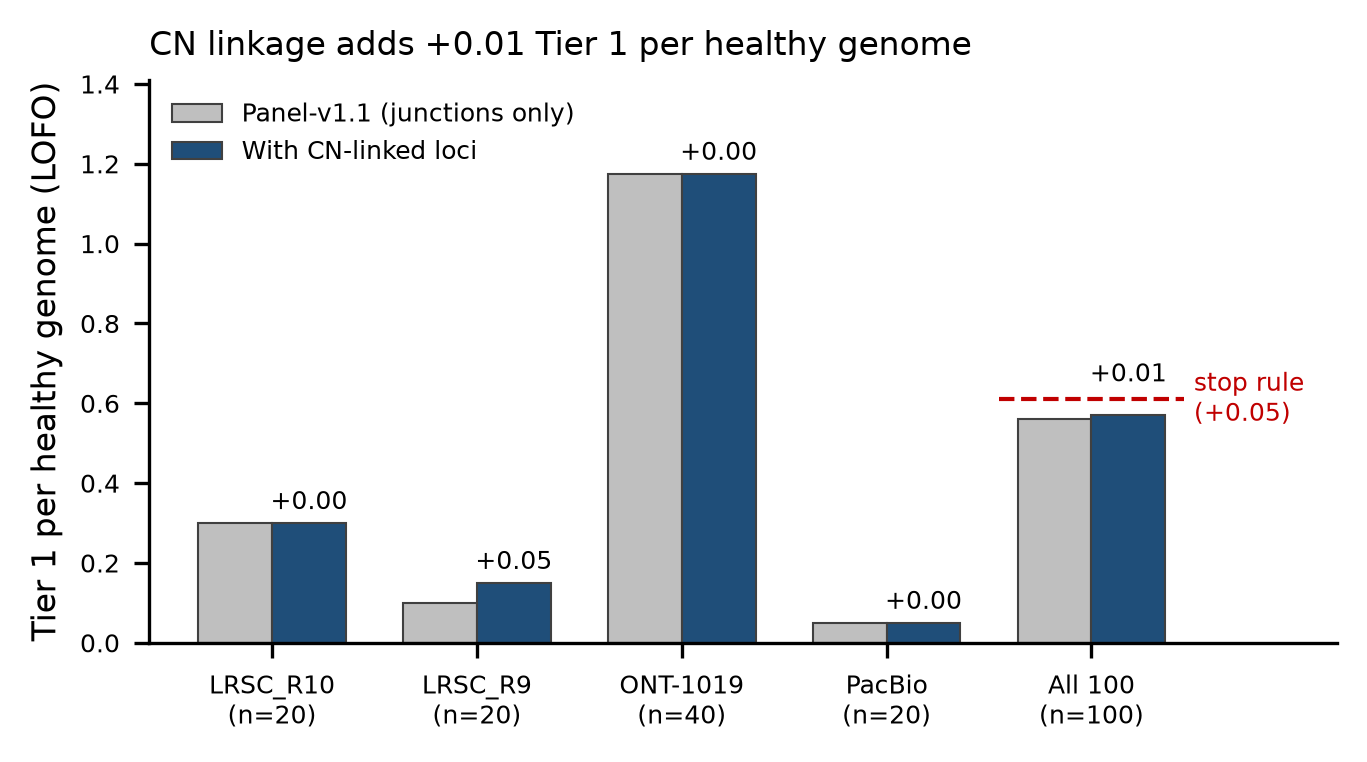
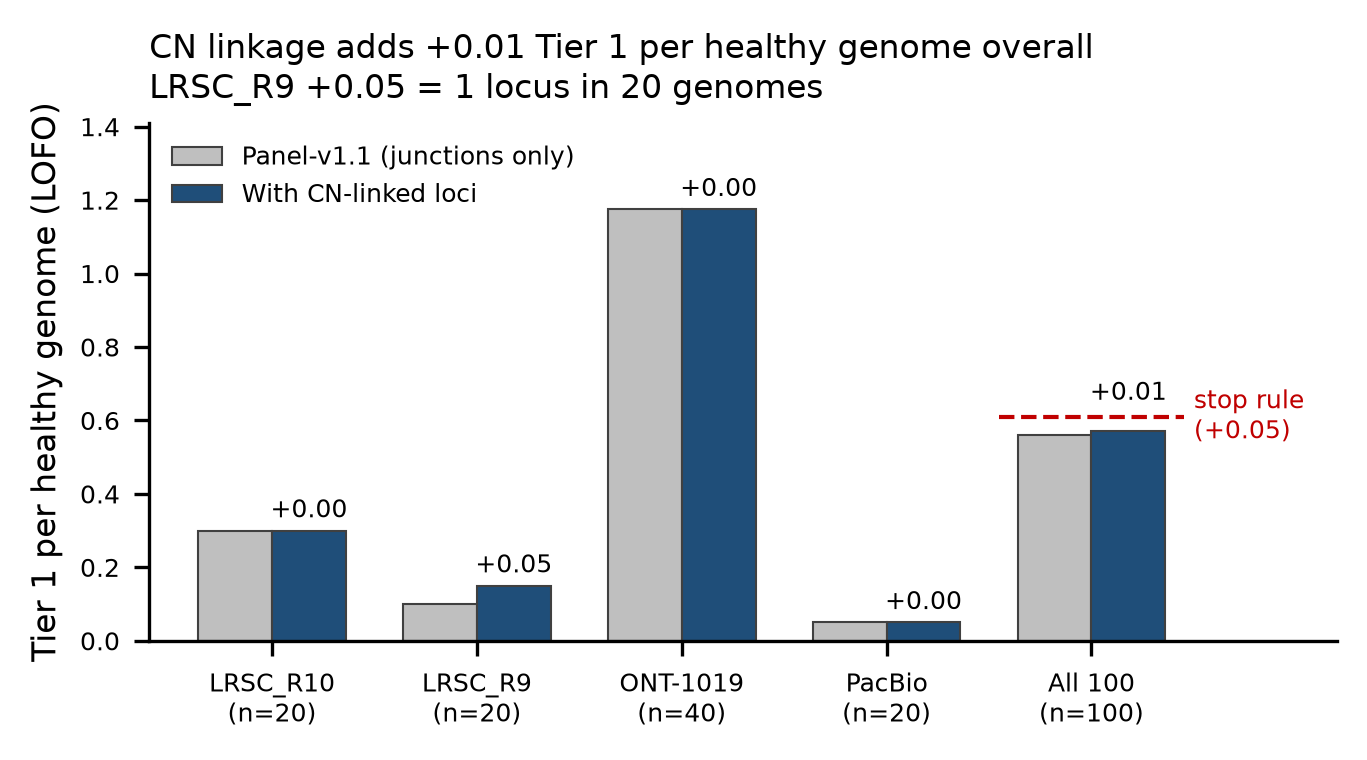
item 15 Phase 1 report: state per-stratum test D (LRSC R9 +0.05 = one locus in 20 genomes)

diff --git a/calibration/cn_linkage/make_figures.py b/calibration/cn_linkage/make_figures.py
@@ -78,7 +78,11 @@ def fig_d(path, genomes, out):
     ax.set_ylabel("Tier 1 per healthy genome (LOFO)")
     ax.set_xlim(-0.6, len(S) + 0.2); ax.set_ylim(0, max(1.0, S.new.max() * 1.2))
     d = S.new.iloc[-1] - S.old.iloc[-1]
-    ax.set_title(f"CN linkage adds {d:+.2f} Tier 1 per healthy genome", loc="left")
+    per = S.iloc[:-1].assign(delta=lambda t: t.new - t.old)
+    top = per.loc[per.delta.idxmax()]
+    note = (f"\n{top.stratum} {top.delta:+.2f} = {int(round(top.delta * top.n))} locus in {int(top.n)} genomes"
+            if top.delta > d else "")
+    ax.set_title(f"CN linkage adds {d:+.2f} Tier 1 per healthy genome overall{note}", loc="left")
     ax.legend(frameon=False, loc="upper left", fontsize=6)
     fig.tight_layout(); fig.savefig(f"{out}/fig_testD_healthy.png", dpi=300)
 

diff --git a/docs/CN_LINKAGE_PHASE1.md b/docs/CN_LINKAGE_PHASE1.md
@@ -219,6 +219,7 @@ Method: the item-10 / item-13 LOFO chain (locus callability, leave-out status, d
 ![Healthy Tier 1](cn_linkage/fig_testD_healthy.png)
 
 - **Tier 1 per healthy genome:** 0.56 → 0.57 (+0.01), against a stop rule of +0.05.
+- **Per stratum:** LRSC R9 +0.05 (0.10 → 0.15). That is the single new Tier 1 below (HG00136): one locus in 20 genomes moves a stratum by 0.05. LRSC R10, ONT-1019 and PacBio are +0.00. The stop rule is a panel-wide per-genome rate, so R9 sits at the threshold only because n = 20. Phase 2 should report per-stratum rates on the full panel.
 - **Score stability:** 0 existing loci changed score or tier across 112,224 loci.
 - **New loci:** 107 added: 89 benign, 9 Tier 3, 8 Tier 2, 1 Tier 1.
 - **The one new Tier 1:** HG00136 (R9), chr2:230,331,120–230,521,261, DUP-TRP_INV-DUP, private, 1.41, driven by gene dosage.
